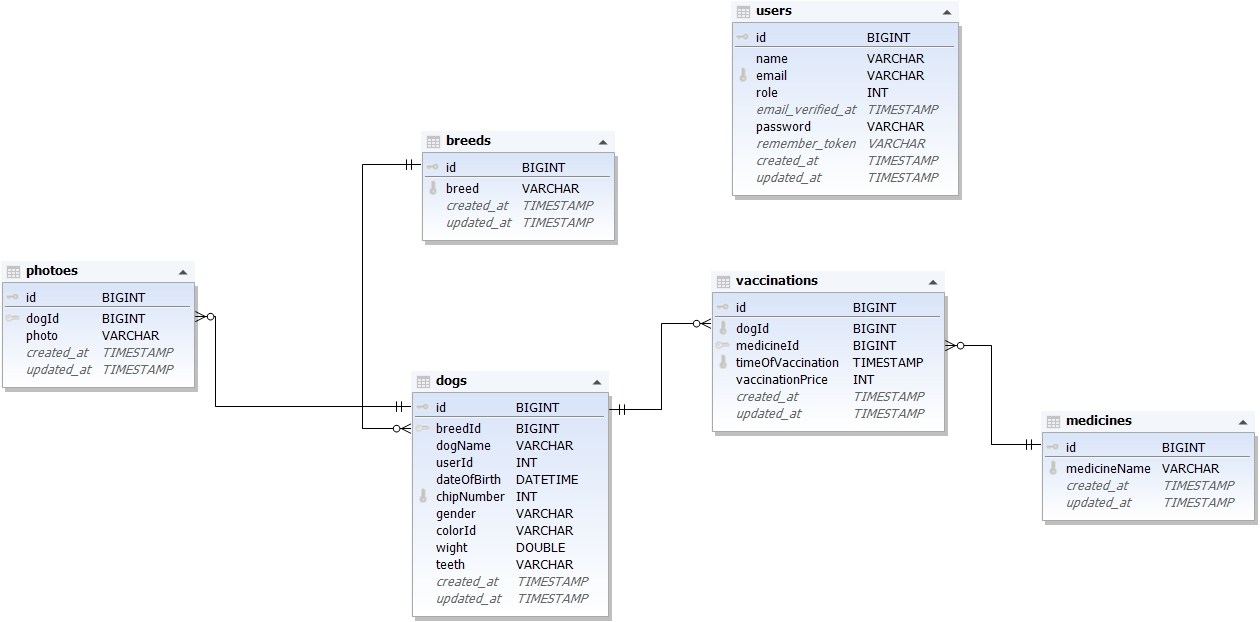
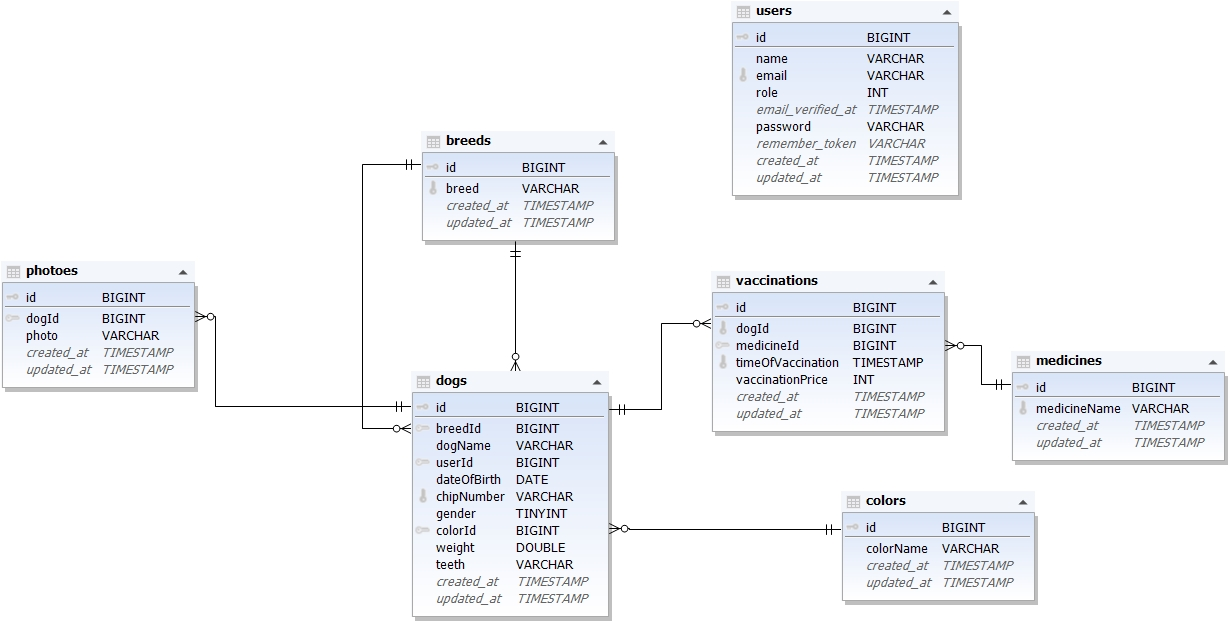
breeds, colors, medicines seeder kész

diff --git a/server/database/seeders/ColorSeeder.php b/server/database/seeders/ColorSeeder.php
@@ -2,8 +2,11 @@
 
 namespace Database\Seeders;
 
+use App\Models\Color;
+
 use Illuminate\Database\Console\Seeds\WithoutModelEvents;
 use Illuminate\Database\Seeder;
+
 
 class ColorSeeder extends Seeder
 {
@@ -12,6 +15,27 @@ class ColorSeeder extends Seeder
      */
     public function run(): void
     {
-        //
+        $filePath = database_path(path: 'csv\colors.csv');
+        $data = [];
+        if (file_exists($filePath)) {
+            if (($handle = fopen($filePath, 'r')) !== false) {
+                // 1. Beolvassuk a fejléceket (ha vannak)
+                $header = fgetcsv($handle, 0, ';');
+
+                // 2. Soronként beolvassuk az adatokat (0 azt jelenti, hogy nincs korlát a beolvasott sorra)
+                while (($cols = fgetcsv($handle, 0, ',')) !== false) {
+                    if (count($header) === count($cols)) {
+                        // Asszociatív tömb létrehozása (jobb olvashatóság!)
+                        $data[] = array_combine($header, $cols);
+                    }
+                }
+                // 3. Zárjuk a fájlt (itt kötelező!)
+                fclose($handle);
+            }
+        }
+
+        if (Color::count() === 0) {
+            Color::factory()->createMany($data);
+        }
     }
 }

diff --git a/server/database/seeders/MedicineSeeder.php b/server/database/seeders/MedicineSeeder.php
@@ -2,6 +2,8 @@
 
 namespace Database\Seeders;
 
+use App\Models\Medicine;
+
 use Illuminate\Database\Console\Seeds\WithoutModelEvents;
 use Illuminate\Database\Seeder;
 
@@ -12,6 +14,27 @@ class MedicineSeeder extends Seeder
      */
     public function run(): void
     {
-        //
+        $filePath = database_path(path: 'csv\medicines.csv');
+        $data = [];
+        if (file_exists($filePath)) {
+            if (($handle = fopen($filePath, 'r')) !== false) {
+                // 1. Beolvassuk a fejléceket (ha vannak)
+                $header = fgetcsv($handle, 0, ';');
+
+                // 2. Soronként beolvassuk az adatokat (0 azt jelenti, hogy nincs korlát a beolvasott sorra)
+                while (($cols = fgetcsv($handle, 0, ',')) !== false) {
+                    if (count($header) === count($cols)) {
+                        // Asszociatív tömb létrehozása (jobb olvashatóság!)
+                        $data[] = array_combine($header, $cols);
+                    }
+                }
+                // 3. Zárjuk a fájlt (itt kötelező!)
+                fclose($handle);
+            }
+        }
+
+        if (Medicine::count() === 0) {
+            Medicine::factory()->createMany($data);
+        }
     }
 }

diff --git a/server/database/seeders/BreedSeeder.php b/server/database/seeders/BreedSeeder.php
@@ -2,6 +2,7 @@
 
 namespace Database\Seeders;
 
+use App\Models\Breed;
 use Illuminate\Database\Console\Seeds\WithoutModelEvents;
 use Illuminate\Database\Seeder;
 
@@ -12,6 +13,27 @@ class BreedSeeder extends Seeder
      */
     public function run(): void
     {
-        //
+        $filePath = database_path(path: 'csv\breeds.csv');
+        $data = [];
+        if (file_exists($filePath)) {
+            if (($handle = fopen($filePath, 'r')) !== false) {
+                // 1. Beolvassuk a fejléceket (ha vannak)
+                $header = fgetcsv($handle, 0, ';');
+
+                // 2. Soronként beolvassuk az adatokat (0 azt jelenti, hogy nincs korlát a beolvasott sorra)
+                while (($cols = fgetcsv($handle, 0, ',')) !== false) {
+                    if (count($header) === count($cols)) {
+                        // Asszociatív tömb létrehozása (jobb olvashatóság!)
+                        $data[] = array_combine($header, $cols);
+                    }
+                }
+                // 3. Zárjuk a fájlt (itt kötelező!)
+                fclose($handle);
+            }
+        }
+
+        if (Breed::count() === 0) {
+            Breed::factory()->createMany($data);
+        }
     }
 }

diff --git a/server/database/seeders/DatabaseSeeder.php b/server/database/seeders/DatabaseSeeder.php
@@ -20,12 +20,18 @@ class DatabaseSeeder extends Seeder
 
         //Mielőtt seedelünk, minden táblát töröljünk le.
         DB::statement('DELETE FROM users');
+        DB::statement('DELETE FROM breeds');
+        DB::statement('DELETE FROM colors');
+        DB::statement('DELETE FROM medicines');
 
 
 
         //Ami Seeder osztály itt fel van sorolva, annak lefut a run() metódusa
         $this->call([
             UserSeeder::class,
+            BreedSeeder::class,
+            ColorSeeder::class,
+            MedicineSeeder::class,
         ]);
     }
 }

diff --git a/server/database/migrations/2026_01_19_090450_create_colors_table.php b/server/database/migrations/2026_01_19_090450_create_colors_table.php
@@ -12,7 +12,7 @@ return new class extends Migration {
     {
         Schema::create('colors', function (Blueprint $table) {
             $table->id();
-            $table->string('colorName', 10);
+            $table->string('colorName', 50);
             $table->timestamps();
         });
     }
